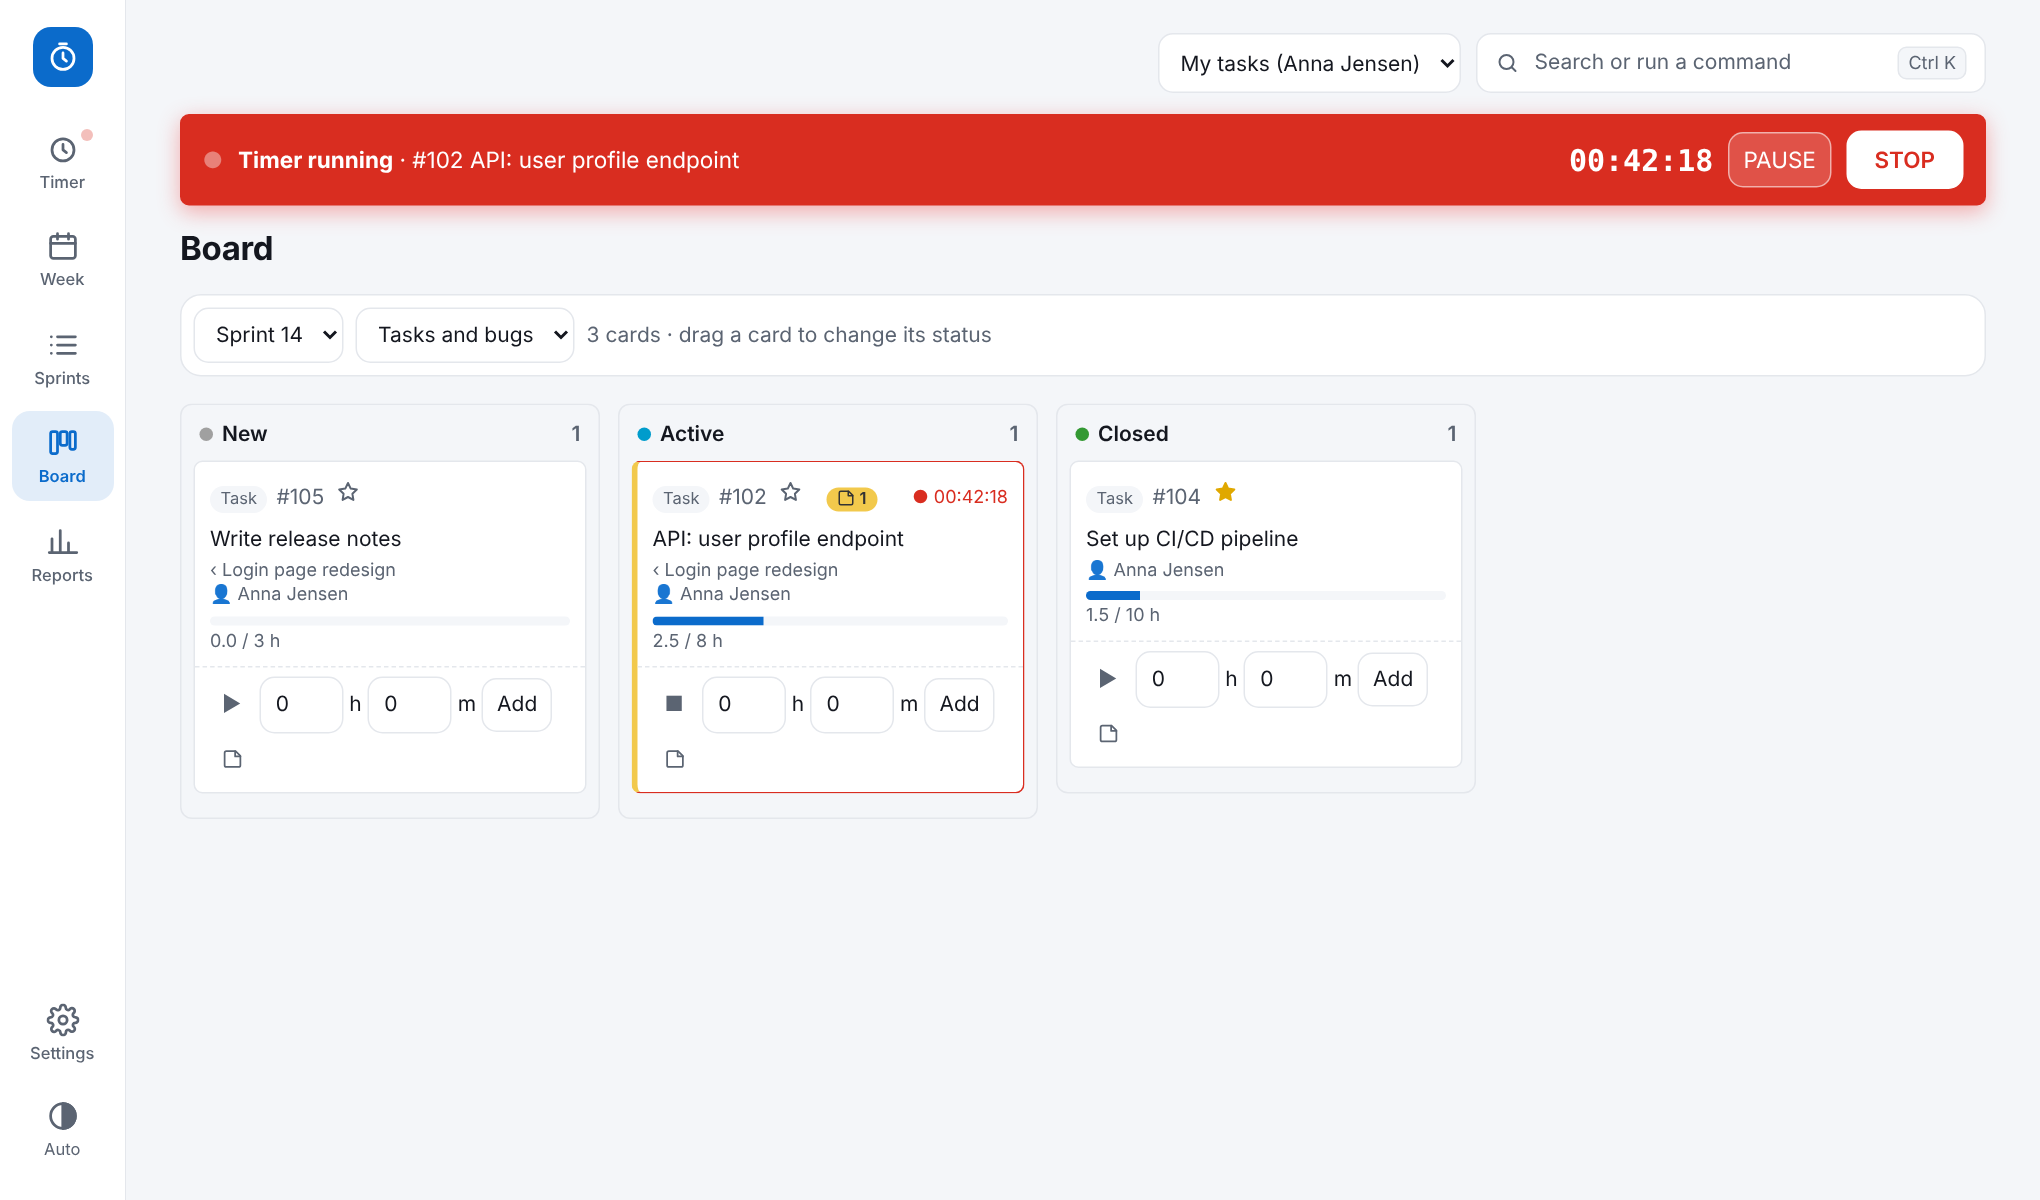
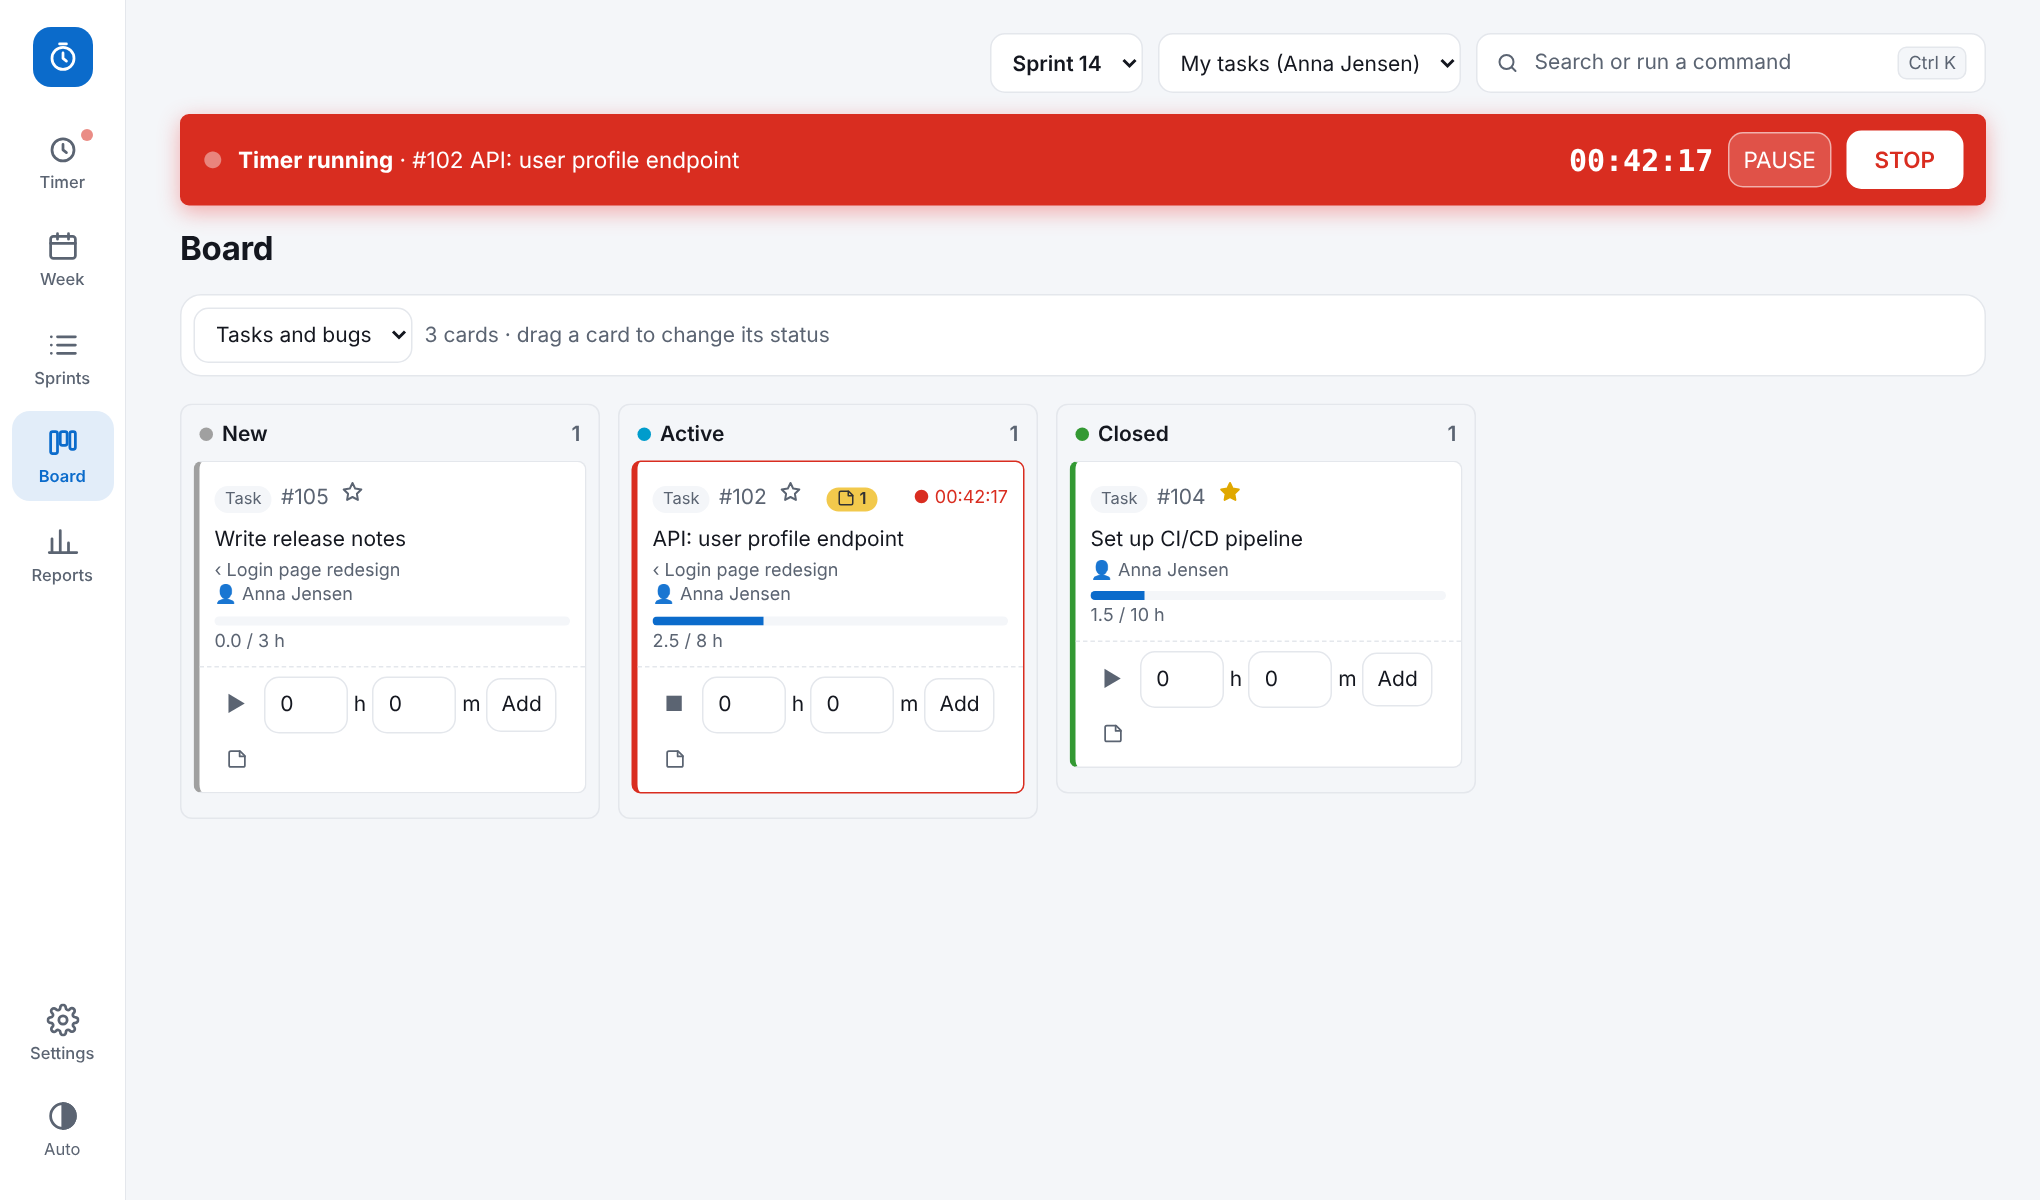
README: refreshed screenshots, Add time screenshot, top bar and multi-project description
Claude-Session: https://claude.ai/code/session_011X2mqYK6ERgU4Kb4fm2Noh

diff --git a/README.md b/README.md
@@ -16,19 +16,24 @@ Most teams track time twice: once in a timer app and once in Azure DevOps. Sprin
 
 | | |
 |---|---|
-| **Timer** | Start/pause/stop a timer on any task, or add time manually in minutes. A clear running-timer bar shows on every page. |
+| **Timer** | Switch between **Timer** and **Add time** at the top of the page (Timer is the default; your task and description are kept when you switch). Start/pause/stop a timer, or add time by hand. A running-timer bar shows on every page. |
 | **Sprints** | Your sprint's tasks and bugs with budget (Original Estimate), logged, remaining and over-budget warnings. |
-| **Board** | New / Active / Closed columns. Drag a card to change its DevOps state. |
+| **Board** | New / Active / Closed columns, colour-coded (grey, blue, green). Drag a card to change its DevOps state. |
 | **Week** | Timesheet grid: edit hours per task per day. |
 | **Reports** | Per day, week or task, with totals. |
 | **Notes** | A quick Inbox plus notes attached to tasks, with done checkboxes. Type `#123 text` to attach. |
 | **Command palette** | `Ctrl+K` to find a task, start a timer, add time or jump to a page. |
-| **My tasks / Everyone** | Defaults to your own tasks (detected from your DevOps login); switch to see colleagues' tasks. |
+| **Top bar** | One place to pick the **project** (when you have saved several), the **sprint** and whose tasks to show: *My tasks* (default, detected from your DevOps login), *Everyone* or a colleague. |
+| **Several projects** | Save more than one DevOps project under Settings and switch between them. Each project keeps its own tasks; your logged time is kept. |
 | **Settings** | Toggle features on/off, pick a theme and accent colour, set up the DevOps connection. |
 
 Only Tasks and Bugs can have time logged (bugs standalone, without a parent).
 
 ## Screenshots
+
+**Add time** (switch with the tabs at the top of the Timer page):
+
+![Add time](docs/add-time.png)
 
 | Sprints | Board |
 |---|---|
